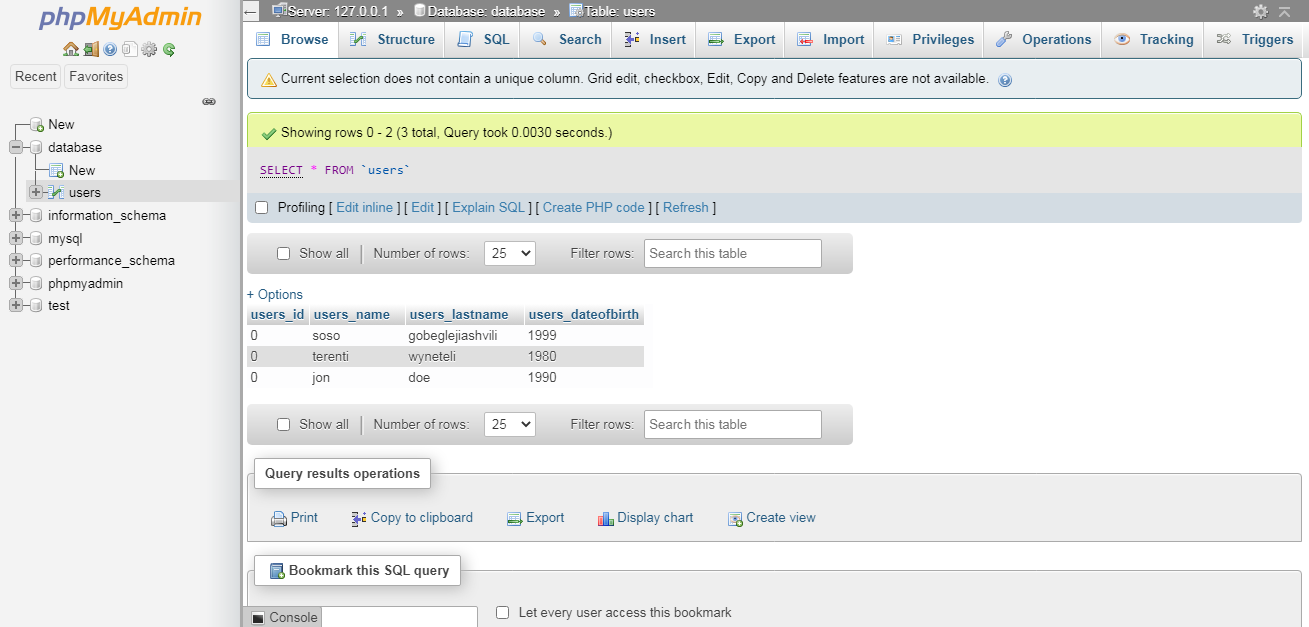
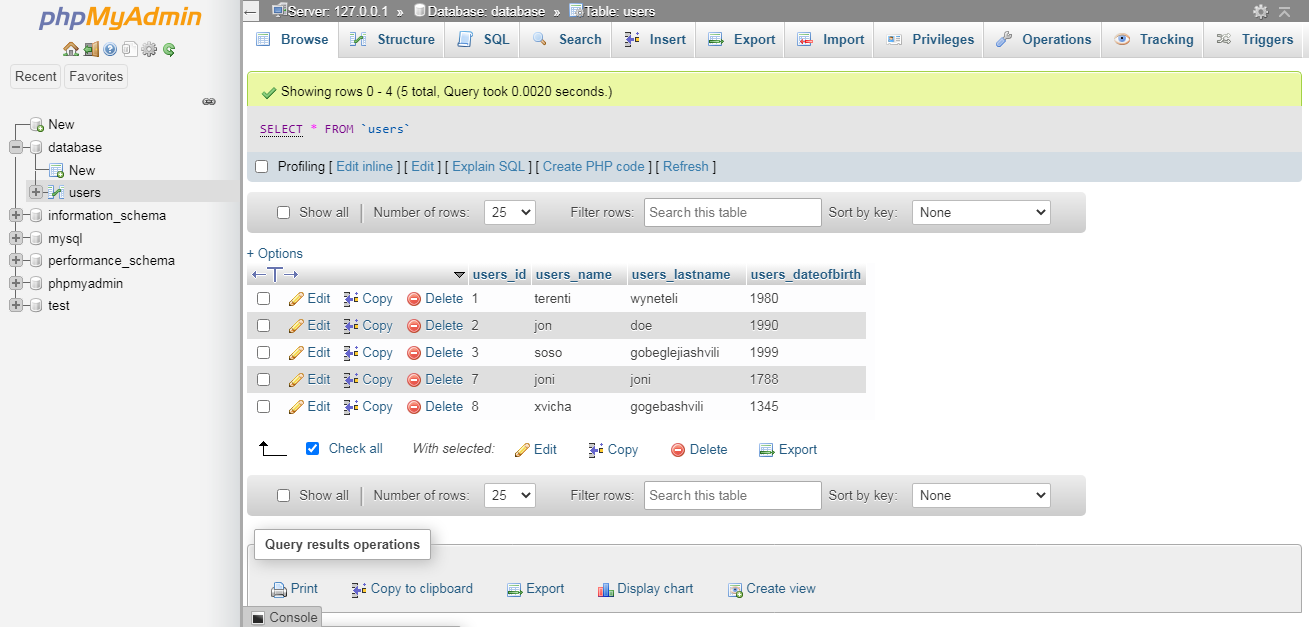
database 0.3

Changed region(s): [[0.1833, 0.0909, 1.0, 1.0]]

diff --git a/classes/users.class.php b/classes/users.class.php
@@ -7,14 +7,34 @@ class Users extends DB{
         $stmt = $this->connect()->prepare($sql);
         $stmt->execute([$name]);
 
-        $usersList = $stmt->fetchAll();
-        return $usersList;
+        $user = $stmt->fetchAll();
+        return $user;
     }
 
-    public function setUser($name, $lastname, $date){
+    protected function getUsers(){
+        $sql = "SELECT * FROM users";
+        $stmt = $this->connect()->query($sql);
+
+        $userlist = $stmt->fetchAll();
+        $result = [];
+
+        foreach ($userlist as $user){
+        array_push($result, $user['users_name']);
+        }
+        return $result;
+        
+    }
+    
+    protected function setUser($name, $lastname, $date){
         $sql = "INSERT INTO users(users_name, users_lastname, users_dateofbirth) VALUES(?, ?, ?)";
         $stmt = $this->connect()->prepare($sql);
         $stmt->execute([$name, $lastname, $date]);
         
+    }
+
+    protected function delUser($name){
+        $sql = "DELETE FROM `users` WHERE `users_name` = ?";
+        $stmt = $this->connect()->prepare($sql);
+        $stmt->execute([$name]);
     }
 }

diff --git a/index.php b/index.php
@@ -11,16 +11,17 @@
 </head>
 <body>
     <?php 
-
-    $userctrl = new Usersctrl();
-    $userctrl->createUser("soso", "gobeglejiashvili", "1999");
-    $userctrl->createUser("terenti", "wyneteli", "1980");
-    $userctrl->createUser("jon", "doe", "1990");
-
-    $userview = new Usersview();
-    $userview->showUser("soso");
-    
+       $userview = new Usersview();
+       $userview->showUsers();
     ?>
+
+    <form action="includes/tempcreateusers.inc.php" method="post">
+      <p>Enter User info:</p>
+      <input type="name" name="name" placeholder="Enter Name"><br>
+      <input type="name" name="lastname" placeholder="Enter Lastname"><br>
+      <input type="number" name="date" placeholder="Enter Date Of Birth"><br>
+      <button type="submit" name="submit">Enter!</button><br>
+    </form>
     
 </body>
 </html>

diff --git a/classes/usersview.class.php b/classes/usersview.class.php
@@ -5,8 +5,15 @@ class Usersview extends Users {
     public function showUser($name){
         $result = $this->getUser($name);
         echo "First name: " . $result[0]['users_name'] . "  Lastname:" . $result[0]['users_lastname']. "  Date of Birth:" . $result[0]['users_dateofbirth'];
-        
-
+        echo '<br>';
     } 
     
+    public function showUsers(){
+        echo "List of all users: ";
+        foreach($this->getUsers() as $user){
+            echo $user . '; ';
+        }
+        echo '<br>';
+        
+    }
 }

diff --git a/classes/usersctrl.class.php b/classes/usersctrl.class.php
@@ -5,6 +5,17 @@ class Usersctrl extends Users {
     public function createUser($name, $lastname, $date)
     {
       $this->setUser($name, $lastname, $date);
+
+      echo "User ". $name . " was added succesfully";
+      echo '<br>';
+    }
+
+    public function deleteUser($name)
+    {
+      $this->delUser($name);
+
+      echo "User ". $name . " was deleted succesfully";
+      echo '<br>';
     }
     
 }

diff --git a/includes/tempcreateusers.inc.php b/includes/tempcreateusers.inc.php
@@ -1,0 +1,9 @@
+<?php
+include 'class-autoload.inc.php';
+$name = $_POST["name"];
+$lastName = $_POST["lastname"];
+$date = $_POST["date"];
+
+$userctrl = new Usersctrl();
+$userctrl->createUser($name, $lastName, $date);
+
